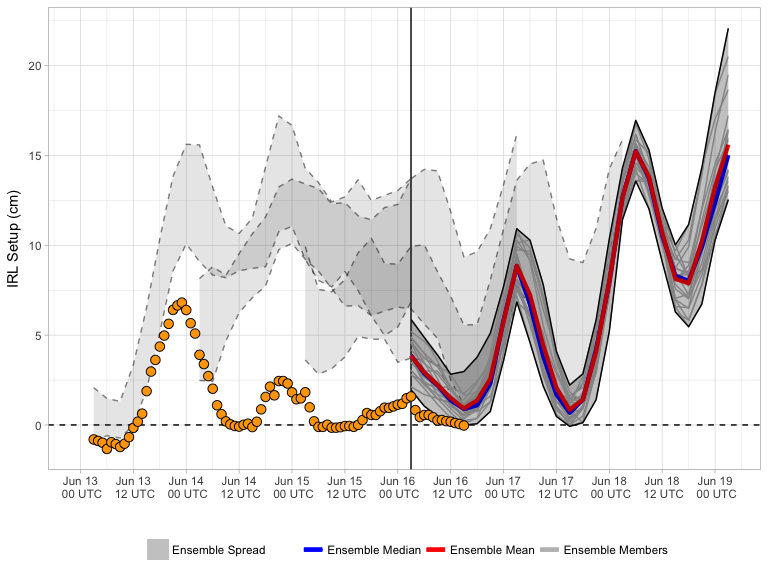
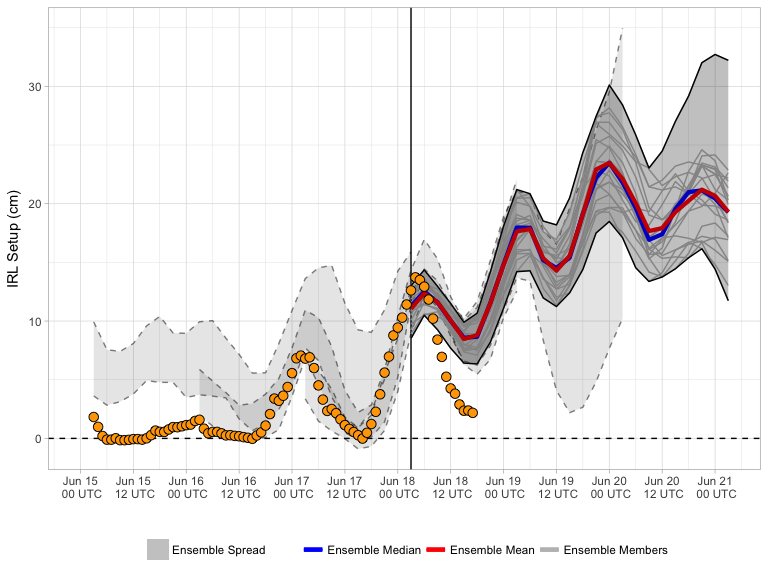
20170618 forecast update

diff --git a/docs/index.md b/docs/index.md
@@ -3,7 +3,7 @@ Current Forecast
 
 [![](img/raw_setup.png)](https://bhlmn.github.io/IRLSetup/img/raw_setup.png)
 
-> Forecast valid 2017-06-16 11:59:05.
+> Forecast valid 2017-06-18 13:51:16.
 
 Explanation
 -----------
@@ -15,7 +15,7 @@ water elevation in the northern IRL (near Titusville), and negative
 setup indicates the increase elevation in the southern IRL (near
 Sebastian). The x-axis displays the date and time in UTC. The solid
 vertical line represents the beginning of the most recent ensemble
-forecast (currently 2017-06-15 18:00:00). For this most recent forecast,
+forecast (currently 2017-06-17 18:00:00). For this most recent forecast,
 the ensemble spread (grey shading) is bound by solid black lines, with
 individual members represented by faint grey lines. The ensemble mean
 and median for this are represented by the red and blue curves,
